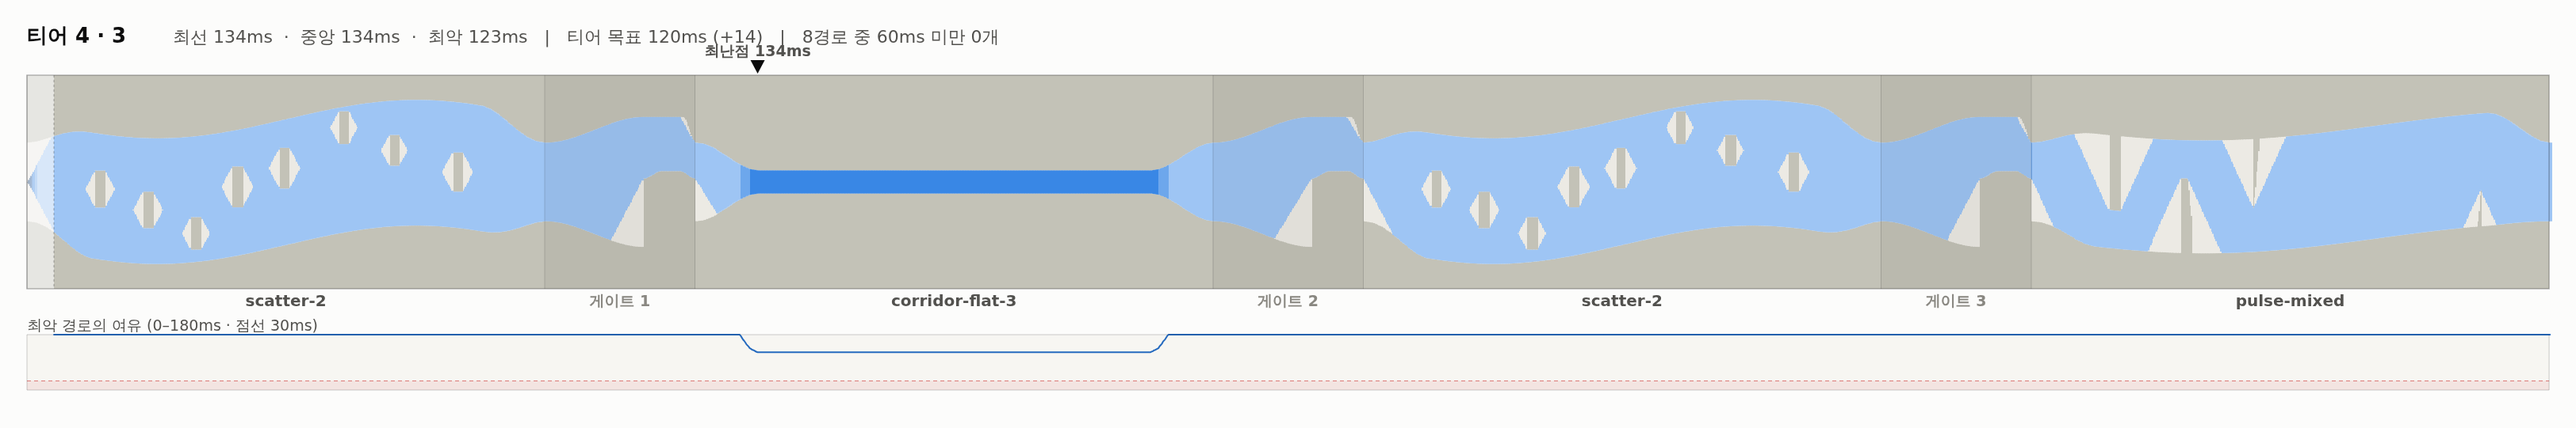
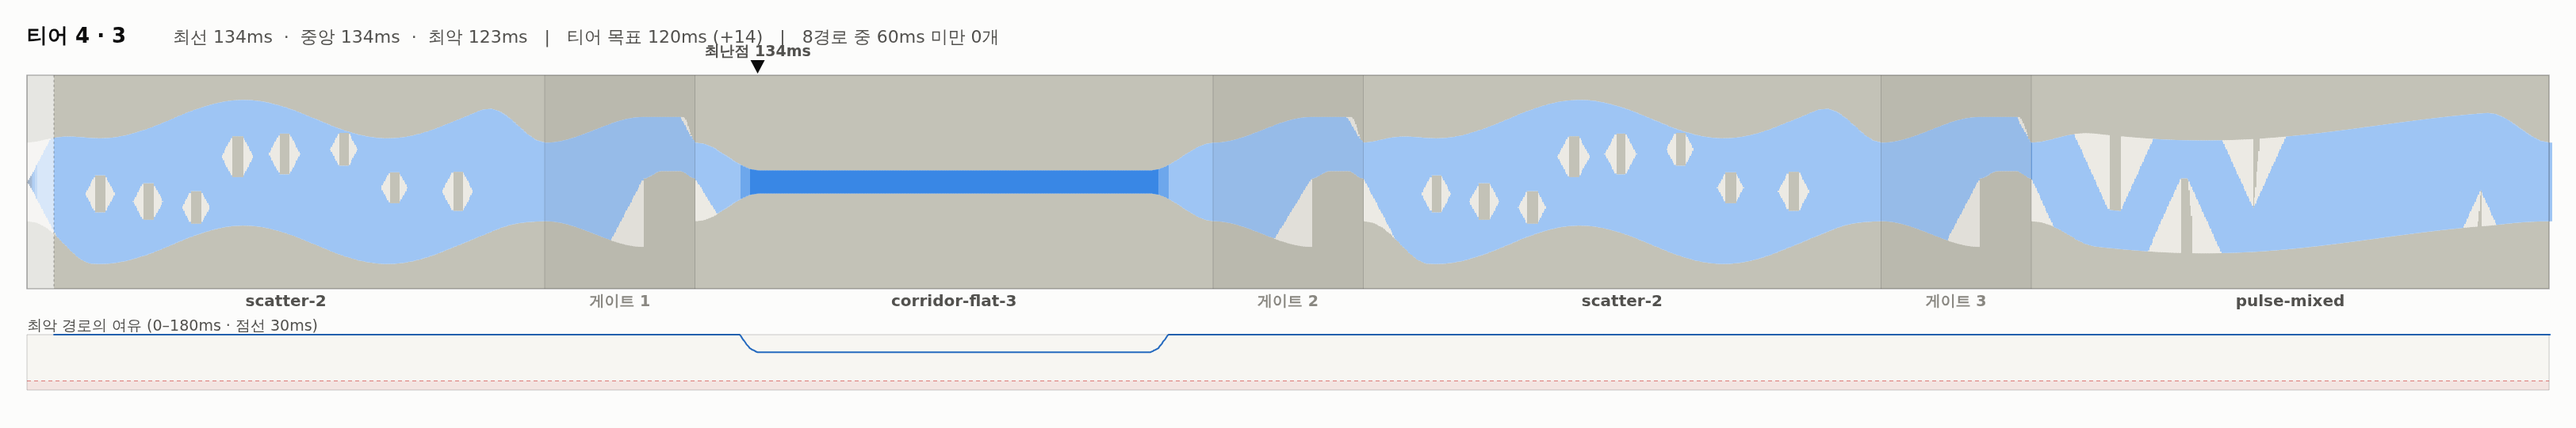
feat(wave-runner): 산개의 8.7초짜리 직선을 걷어낸다 (0.7.1)
밋밋 비율 52% → 43%, 가장 긴 직선 8.7초 → 5.9초. **여유는 264ms 그대로다.**

중앙선은 이미 `wave` 로 흐르고 있었는데 460단위에 1주기였다 — 11초에 한 번 굽는 것은
직선이다(기울기 최대 0.12). 주기를 난이도에 묶었다(1.4 / 1.8 / 2.2 → 기울기
0.17 / 0.22 / 0.27). 상한의 근거는 기체다: 세 축의 합이 0 이라 하강 한계의 최악이
0.397 이므로 가장 가파른 scatter-3 도 그 아래다.

폭은 일부러 건드리지 않았다. 여유는 `W/(2·rate)` 라 폭의 함수이므로, 폭을 그대로 두면
주기를 올려도 여유가 한 치도 안 움직인다.

측정이 말린 곳 — 처음에는 폭도 함께 좁혔다(62 → 48~60).

|          | 산개 여유 | 티어 곡선 | 오토파일럿 여유 | 벽 | 밋밋 |
|----------|-----------|-----------|-----------------|-----|------|
| 기준     | 264ms     | 177/170/143/128 | 110/80/80/70 | 0/0/3/0 | 52% |
| 주기만   | 264ms     | 177/170/143/128 | 110/60/80/80 | 0/0/3/0 | 43% |
| 주기+폭  | 178ms     | 177/170/143/128 | −1/−1/−1/60  | 3/4/5/0 | 40% |

폭까지 건드리면 **티어 곡선은 1ms 도 안 움직이는데 오토파일럿이 무너진다.** 밋밋함은
3%p 더 줄 뿐이다. 최소 여유는 "통로가 순간적으로 얼마나 좁은가" 만 재고 "움직이는
통로를 따라가는 것이 얼마나 어려운가" 는 못 잰다 — 난이도를 올리지 않는 것이 목표였으므로
폭과 블록은 원래대로 두었다.

- 산개가 내던 밋밋 4734 → 1589단위, 최장 구간 365 → 63단위
- 티어 곡선·시드표·섹터 최소 여유·한 판의 길이 전부 무변화. 산개는 어느 스테이지에서도
  병목이 아니라 재큐레이션이 필요 없었다
- `runner-grades.json` 재굽기(둔각 80 → 60ms 외 무변화), 코스 지도 13장 재생성

드러난 것 — `scatter-1·2·3` 의 최소 여유가 264ms 로 똑같다. 난이도 숫자가 블록 수와
크기만 바꾸는데 통로가 폭 62 로 회랑의 두 배라 블록이 한 번도 최소 여유를 만들지 못한다.
폭이 답이 아닌 것은 위에서 확인됐으므로 배치의 조밀도나 가로막는 위치를 찾아야 한다.

검증 — 검증기 13종 전부 통과, verify PASS(lint · build · 8샷 · 오류 0).

Claude-Session: https://claude.ai/code/session_019UeSMGbwD9uPqq1Pbz8a8p

Changed region(s): [[0.0, 0.2366, 0.2176, 0.6211], [0.5285, 0.2366, 0.715, 0.6211], [0.715, 0.5028, 0.7461, 0.5323]]

diff --git a/projects/wave-runner/app/src/game/sectors.ts b/projects/wave-runner/app/src/game/sectors.ts
@@ -323,11 +323,50 @@ const corridor = (difficulty: number, drift: CorridorDrift) => makeCorridor(diff
 /**
  * 산개 — 넓은 통로에 흩뿌려진 장애물. 경로를 찾아 엮는 구간이라
  * 판단 시간이 긴 낮은 속도가 유리하다.
+ *
+ * ## 0.7.1 — 8.7초짜리 직선이었다
+ *
+ * `flatness.ts` 가 산개를 지목했다. 한 번 나올 때마다 460 중 365단위(8.7초)가 "여유가
+ * 스테이지 최난점의 2배 이상이면서 중앙선이 직선" 이었고, 12스테이지 전체 밋밋 구간의
+ * 절반을 혼자 냈다.
+ *
+ * 중앙선은 이미 `wave` 로 흐르고 있었다. 문제는 진폭이 아니라 **460단위에 1주기**라는
+ * 것이었다 — 11초에 한 번 굽는 것은 직선이다(중앙선 기울기 최대 0.12).
+ *
+ * **주기를 난이도에 묶었다**(1.4 / 1.8 / 2.2 → 기울기 0.17 / 0.22 / 0.27). 상한의 근거는
+ * 기체다 — 세 축의 합이 0 이라 **하강 한계의 최악이 0.397** 이므로(`CorridorSpec` 주석)
+ * 가장 가파른 scatter-3 도 그 아래에 둔다.
+ *
+ * ## 폭은 건드리지 않는다 — 측정이 말린 곳
+ *
+ * 같이 재다가 알게 된 것이 둘 있다.
+ *
+ * **① `scatter-1·2·3` 의 최소 여유가 264ms 로 똑같다.** 난이도 숫자가 블록 수(6/8/10)와
+ * 크기만 바꾸는데 통로가 폭 62 로 회랑(30)의 두 배라, **블록이 한 번도 최소 여유를 만들지
+ * 못한다.** 세 변종이 여유로는 같은 섹터이고 그 264ms 는 다른 어떤 섹터보다 두 배 너그럽다.
+ *
+ * **② 그래도 폭을 좁히면 안 된다.** 폭을 62 → 48~60 으로 흔들어 봤더니 섹터 여유가
+ * 264 → 178ms 로 떨어지면서 **오토파일럿이 무너졌다** — 여유 중앙값 110/80/80/70 →
+ * −1/−1/−1/60, 벽 0/0/3/0 → 3/4/5/0. 그런데 **솔버 기준 티어 곡선은 1ms 도 움직이지
+ * 않았다**(산개는 어느 스테이지에서도 병목이 아니다). 밋밋함은 2%p 더 줄었을 뿐이다.
+ *
+ * 여기서 배울 것은 지표의 한계다 — **최소 여유는 "통로가 순간적으로 얼마나 좁은가" 만 재고
+ * "움직이는 통로를 따라가는 것이 얼마나 어려운가" 는 못 잰다.** 폭과 주기를 함께 올리면
+ * 그 눈먼 방향으로 난이도가 오른다. 주기만 올리면 여유는 **264ms 그대로**이고 밋밋함만
+ * 52% → 43% 로 내려간다. 그래서 폭과 블록은 원래대로 두었다.
+ *
+ * ①은 남은 문제로 기록해 둔다. 난이도 숫자가 통로에 닿게 하려면 폭이 아닌 다른 것을
+ * 찾아야 한다 — 블록 배치의 조밀도나 통로를 가로막는 위치 같은 것.
  */
 function scatter(difficulty: number): Sector {
   const count = [6, 8, 10][difficulty - 1];
   const size = [10, 11, 12][difficulty - 1];
-  const nodes = withCuffs(run(0, SECTOR_LEN, wave(50, 9, 1), flat(62), 8));
+  /** 460단위에 몇 번 굽는가. 중앙선 기울기 = 2π·진폭·주기/길이 로 0.20 / 0.26 / 0.32. */
+  const cycles = [1.4, 1.8, 2.2][difficulty - 1];
+  const nodes = withCuffs(
+    // 폭의 위상을 1/4 주기 밀어, 가장 좁은 자리가 중앙선이 가장 가파른 자리를 피하게 한다.
+    run(0, SECTOR_LEN, wave(50, 9, cycles), flat(62), 8)
+  );
   const r = rng(1000 + difficulty);
   const blocks: Block[] = [];
   for (let i = 0; i < count; i += 1) {
